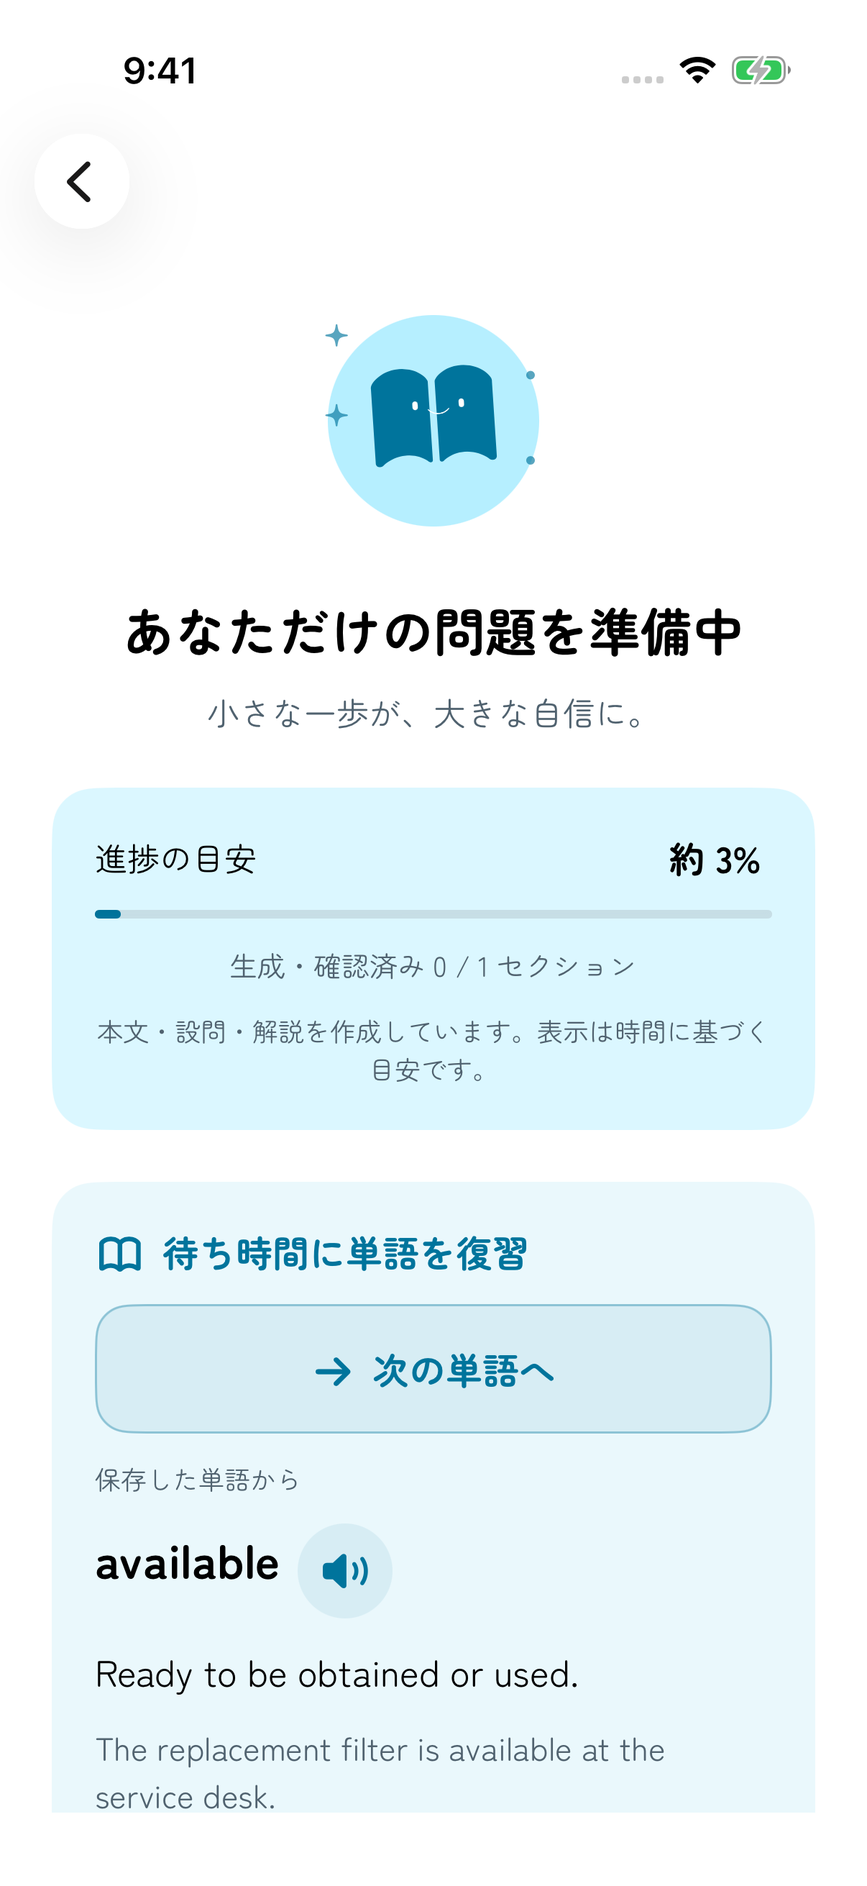
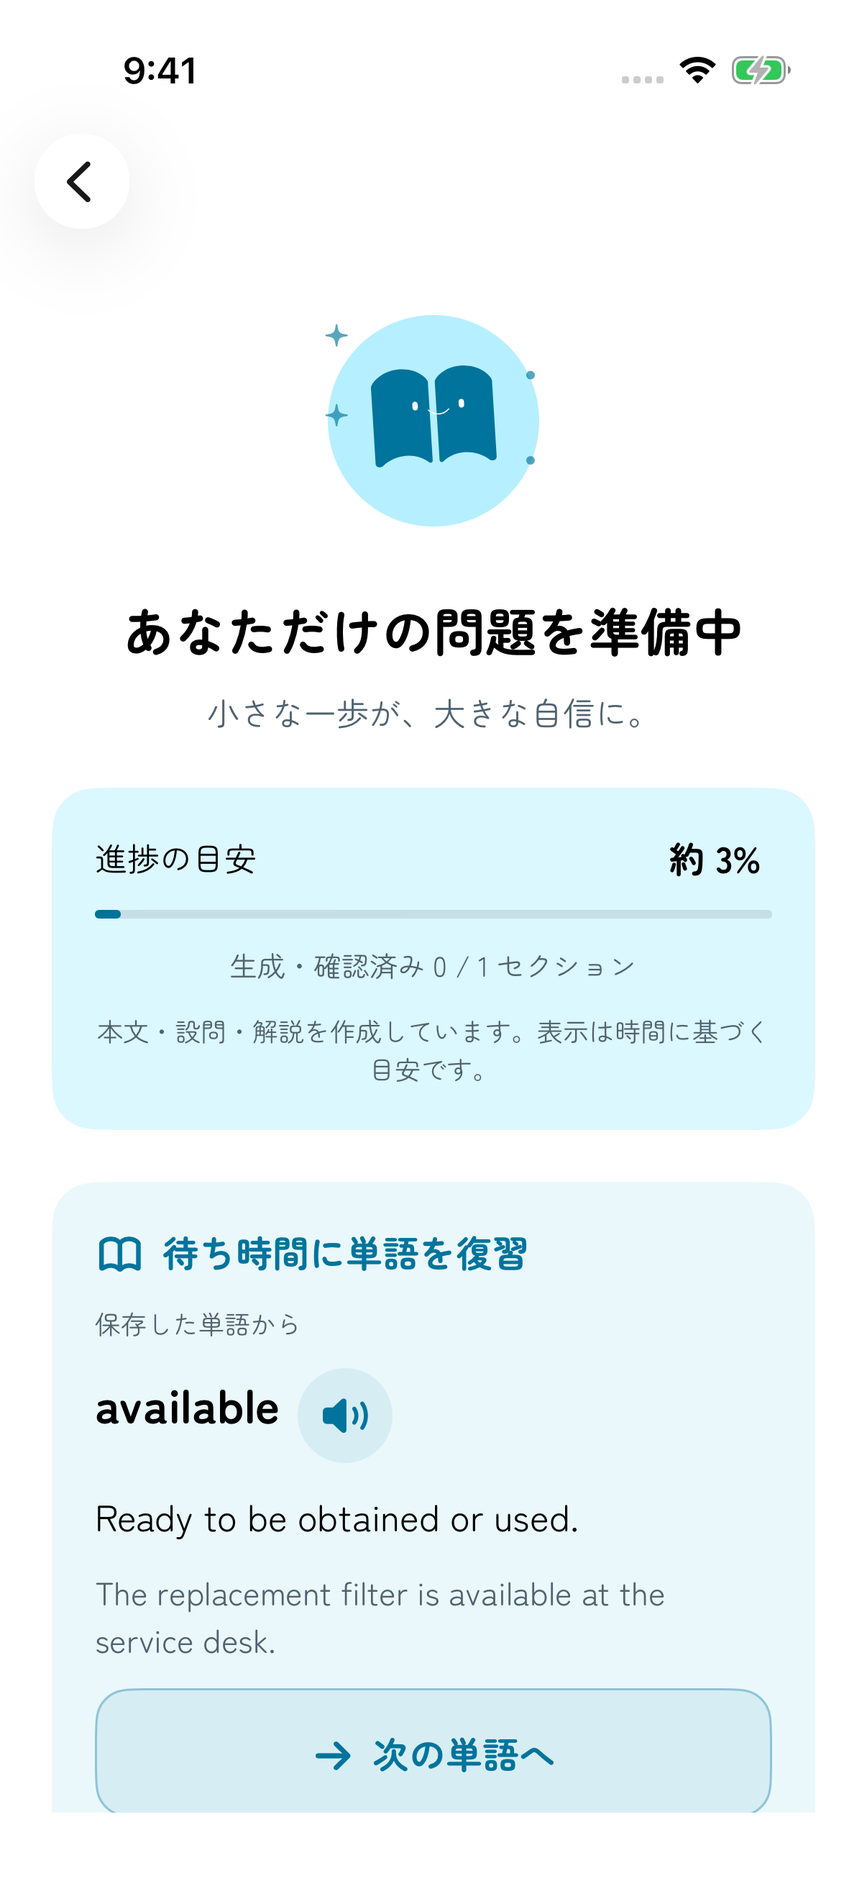
Continue generation in background with system Live Activity progress

diff --git a/Sources/App/BackgroundGeneration.swift b/Sources/App/BackgroundGeneration.swift
@@ -1,0 +1,165 @@
+import BackgroundTasks
+import UIKit
+
+/// Owns a user-initiated job and its system lifetime. All lifetime and UI progress
+/// mutations run on MainActor; URLSession still performs networking asynchronously.
+@MainActor
+final class BackgroundGeneration {
+    private let identifier = "app.pocketielts.study.generation." + UUID().uuidString
+    private let title: String
+    private var total: Int
+    private(set) var completed = 0
+    private(set) var finished = false
+    private var systemInterrupted = false
+    private var worker: Task<Void, Never>?
+    private var startWork: (() -> Void)?
+    private var cancelBeforeStart: (() -> Void)?
+    private var lease = UIBackgroundTaskIdentifier.invalid
+    private var systemTask: BGTask?
+
+    private init(title: String, total: Int) {
+        self.title = title
+        self.total = max(1, total)
+    }
+
+    static func run<T>(title: String, total: Int, useSystemScheduler: Bool = true,
+                       operation: @escaping @MainActor (BackgroundGeneration) async throws -> T) async throws -> T {
+        let job = BackgroundGeneration(title: title, total: total)
+        return try await withTaskCancellationHandler {
+            try Task.checkCancellation()
+            return try await withCheckedThrowingContinuation { continuation in
+                job.cancelBeforeStart = { continuation.resume(throwing: CancellationError()) }
+                job.startWork = {
+                    guard !job.finished, job.worker == nil else { return }
+                    job.cancelBeforeStart = nil
+                    job.worker = Task {
+                        do {
+                            try Task.checkCancellation()
+                            let value = try await operation(job)
+                            try Task.checkCancellation()
+                            job.update(completed: job.total, total: job.total)
+                            job.finish(success: true)
+                            continuation.resume(returning: value)
+                        } catch {
+                            let failure: Error = job.systemInterrupted
+                                ? StudyError.message(String(localized: "Generation was interrupted. Return to the app and retry; completed sections are kept.")) : error
+                            job.finish(success: false)
+                            continuation.resume(throwing: failure)
+                        }
+                    }
+                }
+                job.schedule(useSystemScheduler: useSystemScheduler)
+            }
+        } onCancel: {
+            Task { @MainActor in job.cancel() }
+        }
+    }
+
+    private func schedule(useSystemScheduler: Bool) {
+        #if !targetEnvironment(macCatalyst) && !targetEnvironment(simulator)
+        if #available(iOS 26.0, *), useSystemScheduler, !ProcessInfo.processInfo.isiOSAppOnMac {
+            let registered = BGTaskScheduler.shared.register(forTaskWithIdentifier: identifier, using: .main) { [weak self] task in
+                Task { @MainActor in
+                    guard let self, !self.finished, let task = task as? BGContinuedProcessingTask else {
+                        task.setTaskCompleted(success: false)
+                        return
+                    }
+                    self.systemTask = task
+                    task.expirationHandler = { [weak self] in
+                        Task { @MainActor in self?.interrupt() }
+                    }
+                    self.update(completed: self.completed, total: self.total)
+                    self.startWork?()
+                    self.startWork = nil
+                }
+            }
+            if registered {
+                let request = BGContinuedProcessingTaskRequest(identifier: identifier, title: title, subtitle: progressLabel)
+                request.strategy = .fail // Never queue paid API work for a later, unexpected start.
+                Task { [weak self] in
+                    guard let self, !self.finished else { return }
+                    do { try await Self.submit(request) }
+                    catch {
+                        guard !self.finished else { return }
+                        self.startWithShortLease(useSystemScheduler: useSystemScheduler)
+                    }
+                }
+                return
+            }
+        }
+        #endif
+        startWithShortLease(useSystemScheduler: useSystemScheduler)
+    }
+
+    #if !targetEnvironment(macCatalyst)
+    @available(iOS 26.0, *)
+    private nonisolated static func submit(_ request: BGContinuedProcessingTaskRequest) async throws {
+        if #available(iOS 27.0, *) {
+            try await BGTaskScheduler.shared.submitTaskRequest(request)
+        } else {
+            try BGTaskScheduler.shared.submit(request)
+        }
+    }
+    #endif
+
+    private func startWithShortLease(useSystemScheduler: Bool) {
+        guard !finished, worker == nil else { return }
+        if useSystemScheduler {
+            lease = UIApplication.shared.beginBackgroundTask(withName: title) { [weak self] in
+                self?.interrupt()
+            }
+        }
+        startWork?()
+        startWork = nil
+    }
+
+    private var progressLabel: String { "\(completed * 100 / total)% · \(completed)/\(total)" }
+
+    func update(completed: Int, total: Int) {
+        guard !finished else { return }
+        self.total = max(1, total)
+        self.completed = min(self.total, max(self.completed, completed))
+        #if !targetEnvironment(macCatalyst)
+        if #available(iOS 26.0, *), let task = systemTask as? BGContinuedProcessingTask {
+            task.progress.totalUnitCount = Int64(self.total)
+            task.progress.completedUnitCount = Int64(self.completed)
+            task.updateTitle(title, subtitle: progressLabel)
+        }
+        #endif
+    }
+
+    /// Shared by expiration and the system Live Activity's cancel action.
+    func interrupt() {
+        guard !finished else { return }
+        systemInterrupted = true
+        cancel()
+        // Release the system assertion immediately, even if a dependency ignores cancellation.
+        finish(success: false)
+    }
+
+    private func cancel() {
+        guard !finished else { return }
+        worker?.cancel()
+        if worker == nil {
+            let resume = cancelBeforeStart
+            cancelBeforeStart = nil
+            finish(success: false)
+            resume?()
+        }
+    }
+
+    private func finish(success: Bool) {
+        guard !finished else { return }
+        finished = true
+        startWork = nil
+        cancelBeforeStart = nil
+        systemTask?.setTaskCompleted(success: success)
+        systemTask = nil
+        BGTaskScheduler.shared.cancel(taskRequestWithIdentifier: identifier)
+        if lease != .invalid {
+            UIApplication.shared.endBackgroundTask(lease)
+            lease = .invalid
+        }
+        worker = nil
+    }
+}

diff --git a/Sources/Features/Exam/ListeningAudio.swift b/Sources/Features/Exam/ListeningAudio.swift
@@ -136,6 +136,7 @@ enum SpeechAudio {
     private(set) var error: String?
     private var operation: Task<Void, Never>?
     private var generationID = UUID()
+    private var autoPlayWhenReady = false
 
     func play(script: String, generate: @escaping (String, @escaping @MainActor (Int, Int) -> Void) async throws -> Data = SpeechAudio.generate) {
         if let player {
@@ -149,12 +150,16 @@ enum SpeechAudio {
         }
         guard !generating else { return }
         error = nil; generating = true; completed = 0; total = SpeechAudio.segments(script).count
+        autoPlayWhenReady = UIApplication.shared.applicationState == .active
         let id = UUID(); generationID = id
         operation = Task { [weak self] in
             do {
-                let data = try await generate(script) { [weak self] completed, total in
-                    guard let self, self.generationID == id else { return }
-                    self.completed = completed; self.total = total
+                let data = try await BackgroundGeneration.run(title: String(localized: "音声を生成中"), total: SpeechAudio.segments(script).count) { progress in
+                    try await generate(script) { [weak self] completed, total in
+                        progress.update(completed: completed, total: total)
+                        guard let self, self.generationID == id else { return }
+                        self.completed = completed; self.total = total
+                    }
                 }
                 try Task.checkCancellation()
                 guard let self, self.generationID == id else { return }
@@ -164,7 +169,7 @@ enum SpeechAudio {
                 guard self.generationID == id else { return }
                 self.player = try AVAudioPlayer(data: data)
                 self.generating = false
-                self.play(script: script)
+                if self.autoPlayWhenReady, UIApplication.shared.applicationState == .active { self.play(script: script) }
             } catch {
                 guard let self, self.generationID == id else { return }
                 self.generating = false
@@ -172,8 +177,9 @@ enum SpeechAudio {
             }
         }
     }
-    func pause() { player?.pause() }
+    func pause() { autoPlayWhenReady = false; player?.pause() }
     func stop() {
+        autoPlayWhenReady = false
         generationID = UUID(); operation?.cancel(); operation = nil; generating = false
         player?.stop(); player?.currentTime = 0
     }
@@ -220,10 +226,10 @@ struct ListeningAudioView: View {
             }.padding(20).background(StudyColors.mockCard, in: RoundedRectangle(cornerRadius: 24))
         }
         .onDisappear { playback.stop() }
-        .onReceive(NotificationCenter.default.publisher(for: UIApplication.willResignActiveNotification)) { _ in playback.stop() }
-        .onReceive(NotificationCenter.default.publisher(for: AVAudioSession.interruptionNotification)) { _ in playback.stop() }
+        .onReceive(NotificationCenter.default.publisher(for: UIApplication.willResignActiveNotification)) { _ in playback.pause() }
+        .onReceive(NotificationCenter.default.publisher(for: AVAudioSession.interruptionNotification)) { _ in playback.pause() }
         .onReceive(NotificationCenter.default.publisher(for: AVAudioSession.routeChangeNotification)) { notification in
-            if notification.userInfo?[AVAudioSessionRouteChangeReasonKey] as? UInt == AVAudioSession.RouteChangeReason.oldDeviceUnavailable.rawValue { playback.stop() }
+            if notification.userInfo?[AVAudioSessionRouteChangeReasonKey] as? UInt == AVAudioSession.RouteChangeReason.oldDeviceUnavailable.rawValue { playback.pause() }
         }
     }
     private func time(_ value: Double) -> String { String(format: "%d:%02d", Int(value) / 60, Int(value) % 60) }

diff --git a/Tests/PocketIELTSTests.swift b/Tests/PocketIELTSTests.swift
@@ -651,3 +651,74 @@ extension PocketIELTSTests {
         XCTAssertTrue(try right.snapshot().deletedPapers.isEmpty)
     }
 }
+
+
+extension PocketIELTSTests {
+    func testBackgroundGenerationClampsProgressAndFinishes() async throws {
+        var observed: BackgroundGeneration?
+        let result = try await BackgroundGeneration.run(title: "Fixture", total: 3, useSystemScheduler: false) { job in
+            observed = job
+            job.update(completed: 2, total: 3)
+            job.update(completed: 1, total: 3)
+            XCTAssertEqual(job.completed, 2)
+            job.update(completed: 9, total: 3)
+            XCTAssertEqual(job.completed, 3)
+            return 42
+        }
+        XCTAssertEqual(result, 42)
+        XCTAssertTrue(try XCTUnwrap(observed).finished)
+    }
+
+    func testBackgroundExpirationCancelsWorkAndRejectsLateResult() async throws {
+        var observed: BackgroundGeneration?
+        do {
+            _ = try await BackgroundGeneration.run(title: "Fixture", total: 3, useSystemScheduler: false) { job in
+                observed = job
+                job.update(completed: 1, total: 3)
+                job.interrupt()
+                // A transport that ignores cancellation cannot mark the job complete.
+                return 42
+            }
+            XCTFail("Interrupted work must not succeed")
+        } catch {
+            XCTAssertFalse(error is CancellationError, "System cancellation needs an actionable retry message")
+        }
+        XCTAssertTrue(try XCTUnwrap(observed).finished)
+        XCTAssertEqual(observed?.completed, 1)
+    }
+
+    func testBackgroundGenerationPropagatesOwnerCancellation() async throws {
+        let started = expectation(description: "Started")
+        let cancelled = expectation(description: "Cancelled")
+        let task = Task {
+            try await BackgroundGeneration.run(title: "Fixture", total: 1, useSystemScheduler: false) { _ in
+                started.fulfill()
+                do { try await Task.sleep(for: .seconds(60)) }
+                catch { cancelled.fulfill(); throw error }
+            }
+        }
+        await fulfillment(of: [started], timeout: 2)
+        task.cancel()
+        do { try await task.value; XCTFail("Expected cancellation") } catch { XCTAssertTrue(error is CancellationError) }
+        await fulfillment(of: [cancelled], timeout: 2)
+    }
+
+    func testPausingListeningDoesNotCancelAudioGeneration() async throws {
+        let player = ListeningPlayer()
+        let started = expectation(description: "Audio started")
+        player.play(script: "Fixture") { _, progress in
+            await progress(0, 1)
+            started.fulfill()
+            try await Task.sleep(for: .milliseconds(100))
+            return SpeechAudio.wave(Data(repeating: 0, count: 48000))
+        }
+        await fulfillment(of: [started], timeout: 2)
+        player.pause() // Called when the app resigns active.
+        XCTAssertTrue(player.generating)
+        try await Task.sleep(for: .milliseconds(850))
+        XCTAssertNotNil(player.player)
+        XCTAssertFalse(player.player?.isPlaying ?? true, "Returning to the app must not autoplay background-generated audio")
+        player.stop() // Explicit stop / leaving the question still cancels.
+        XCTAssertFalse(player.generating)
+    }
+}

diff --git a/Sources/Features/Exam/ExamScreen.swift b/Sources/Features/Exam/ExamScreen.swift
@@ -715,15 +715,19 @@ struct GeneratedExamScreen: View {
             #endif
             guard !templates.isEmpty else { error = String(localized: "教材がありません。"); return }
             do {
-                for template in templates.dropFirst(generated.count) {
-                    generationStarted = Date()
-                    let unit = try await StudyClient.generateUnit(like: template)
-                    try Task.checkCancellation()
-                    if generated.count + 1 == templates.count {
-                        completionFrom = GenerationProgress.estimate(completed: generated.count, total: templates.count, elapsed: Date().timeIntervalSince(generationStarted))
-                        completionStarted = Date()
+                try await BackgroundGeneration.run(title: String(localized: "あなただけの問題を準備中"), total: templates.count) { progress in
+                    progress.update(completed: generated.count, total: templates.count)
+                    for template in templates.dropFirst(generated.count) {
+                        generationStarted = Date()
+                        let unit = try await StudyClient.generateUnit(like: template)
+                        try Task.checkCancellation()
+                        if generated.count + 1 == templates.count {
+                            completionFrom = GenerationProgress.estimate(completed: generated.count, total: templates.count, elapsed: Date().timeIntervalSince(generationStarted))
+                            completionStarted = Date()
+                        }
+                        generated.append(unit)
+                        progress.update(completed: generated.count, total: templates.count)
                     }
-                    generated.append(unit)
                 }
                 try await Task.sleep(for: .milliseconds(1300))
                 try Task.checkCancellation()

diff --git a/Sources/Features/Home/StudyLibrary.swift b/Sources/Features/Home/StudyLibrary.swift
@@ -192,10 +192,6 @@ struct WaitingVocabularyView: View {
                 VStack(alignment: .leading, spacing: 12) {
                     Label(String(localized: "Vocabulary while you wait"), systemImage: "book")
                         .font(StudyTypography.headline).foregroundStyle(StudyColors.accent)
-                    // Place the action before variable-length content, so the card can
-                    // fit its text without moving the action as words change.
-                    Button(String(localized: "Next word"), systemImage: "arrow.right") { pronunciation.stop(); index = (index + 1) % cards.count }
-                        .buttonStyle(StudySecondaryButtonStyle()).accessibilityIdentifier("generation.nextWord")
                     Text(String(localized: card.personal ? "From your saved words" : "From the word library"))
                         .accessibilityIdentifier(card.personal ? "generation.source.personal" : "generation.source.bundled")
                         .font(StudyTypography.caption).foregroundStyle(StudyColors.secondaryText)
@@ -211,6 +207,8 @@ struct WaitingVocabularyView: View {
                         }
                     }.frame(maxWidth: .infinity, alignment: .leading)
                         .fixedSize(horizontal: false, vertical: true)
+                    Button(String(localized: "Next word"), systemImage: "arrow.right") { pronunciation.stop(); index = (index + 1) % cards.count }
+                        .buttonStyle(StudySecondaryButtonStyle()).accessibilityIdentifier("generation.nextWord")
                     Text(String(localized: "Your practice opens automatically when ready."))
                         .font(StudyTypography.caption).foregroundStyle(StudyColors.secondaryText)
                 }.padding(20).frame(maxWidth: .infinity, alignment: .leading)

diff --git a/UITests/PocketIELTSUITests.swift b/UITests/PocketIELTSUITests.swift
@@ -257,10 +257,7 @@ final class PocketIELTSUITests: XCTestCase {
         XCTAssertEqual(pronounce.frame.height, 44, accuracy: 1)
         XCTAssertEqual(pronounce.frame.minY, app.staticTexts["generation.word"].frame.minY, accuracy: 1)
         capture("iphone-generation-vocabulary")
-        let nextButtonFrame = action.frame
         action.tap()
-        XCTAssertEqual(action.frame.minY, nextButtonFrame.minY, accuracy: 1)
-        XCTAssertEqual(action.frame.height, nextButtonFrame.height, accuracy: 1)
         let bundledWord = app.staticTexts["generation.word"].label
         XCTAssertNotEqual(bundledWord, "available")
         XCTAssertTrue(app.staticTexts["generation.source.bundled"].exists)
@@ -269,9 +266,8 @@ final class PocketIELTSUITests: XCTestCase {
         XCTAssertNotEqual(app.staticTexts["generation.word"].label, bundledWord)
         XCTAssertNotEqual(app.staticTexts["generation.word"].label, "available")
         for _ in 0..<5 {
+            for _ in 0..<3 where !action.isHittable { app.swipeUp() }
             action.tap()
-            XCTAssertEqual(action.frame.minY, nextButtonFrame.minY, accuracy: 1, "Word length must not move the button")
-            XCTAssertEqual(action.frame.height, nextButtonFrame.height, accuracy: 1)
         }
         capture("iphone-generation-bundled-word")
         let cancel = app.buttons["キャンセルして戻る"]

diff --git a/README.md b/README.md
@@ -205,7 +205,7 @@ Choose a score-based level, then search words or definitions. Flashcard entry po
 
 The small speaker button beside each word (**Hear pronunciation** for VoiceOver) uses an installed English system voice, preferring British English. It does not call a paid API. Playback stops when changing cards, leaving the screen or moving the app to the background. Offline playback depends on an English voice being installed on the device.
 
-During exercise generation, a card immediately displays a **word, meaning and example**. Your saved words appear first in random order, followed by shuffled General Training words. Expressions are deduplicated across both collections, so even one saved word advances to a different word. Saved expressions without a definition are included with a clear “No saved meaning” label. The card fits its word, meaning and example without reserving empty space. **Next word** sits above the changing content to keep the control stable; longer text scrolls with the page. **Next word** and pronunciation are optional; there is no quiz or additional API request. The exercise still opens after the loading indicator reaches 100%.
+During exercise generation, a card immediately displays a **word, meaning and example**. Your saved words appear first in random order, followed by shuffled General Training words. Expressions are deduplicated across both collections, so even one saved word advances to a different word. Saved expressions without a definition are included with a clear “No saved meaning” label. The card fits its word, meaning and example without reserving empty space. **Next word** sits directly below the content without a layout animation; longer text scrolls with the page. **Next word** and pronunciation are optional; there is no quiz or additional API request. The exercise still opens after the loading indicator reaches 100%.
 
 The editable source is in [Scripts/Vocabulary](Scripts/Vocabulary); rebuild and validate all 1,000 entries with `python3 Scripts/build-vocabulary.py`. CI checks that this reproduces the bundled JSON.
 
@@ -217,3 +217,10 @@ The editable source is in [Scripts/Vocabulary](Scripts/Vocabulary); rebuild and 
 ### Leaving a practice session
 
 The upper-left back button opens the exit confirmation; the upper-right bookmark saves the current paper. **Save and finish** remains available even if the paper is already saved (saving is idempotent). Finishing pushes the completion screen using native navigation. Returning Home pops the existing stack rather than rebuilding it; mock-test covers dismiss before the underlying navigation changes. Reduce Motion is respected.
+
+
+Background generation uses Apple's `BGContinuedProcessingTask` on supported iOS/iPadOS 26+ devices. Start generation while the app is open; the system can then continue the job after you switch apps or lock the screen. Its system-managed Live Activity shows **completed sections / total sections and a percentage** for questions, or completed audio segments for listening. These are verified completion counts, not downloaded byte counts or the in-app time estimate, so progress can stay still while a request is running. The OS controls the Live Activity's appearance and cancellation UI; no widget extension or push-notification server is required.
+
+If the device cannot grant continued processing (including older OS versions, Simulator and Designed for iPad on Mac), the app uses a limited background-time extension. iOS can still stop work due to resource limits, and force-quitting the app stops generation. System cancellation/expiration cancels in-flight work and shows a retry message. Completed question sections remain available for retry while that generation screen stays open; completed audio segments are cached on disk. Incomplete question generation is not restored after force-quit. Explicitly leaving the question or cancelling still stops work. Audio generation can finish in the background, but playback waits for an explicit tap if the app is not active when it finishes.
+
+Validation of system Live Activities requires a physical supported device: start question/audio generation, switch apps or lock the device, check completed counts, return to the app, and cancel once from the system UI. Automated tests use injected work without API credentials to check expiration, owner cancellation, progress and audio-generation lifetime. No paid API request is made by those tests.
